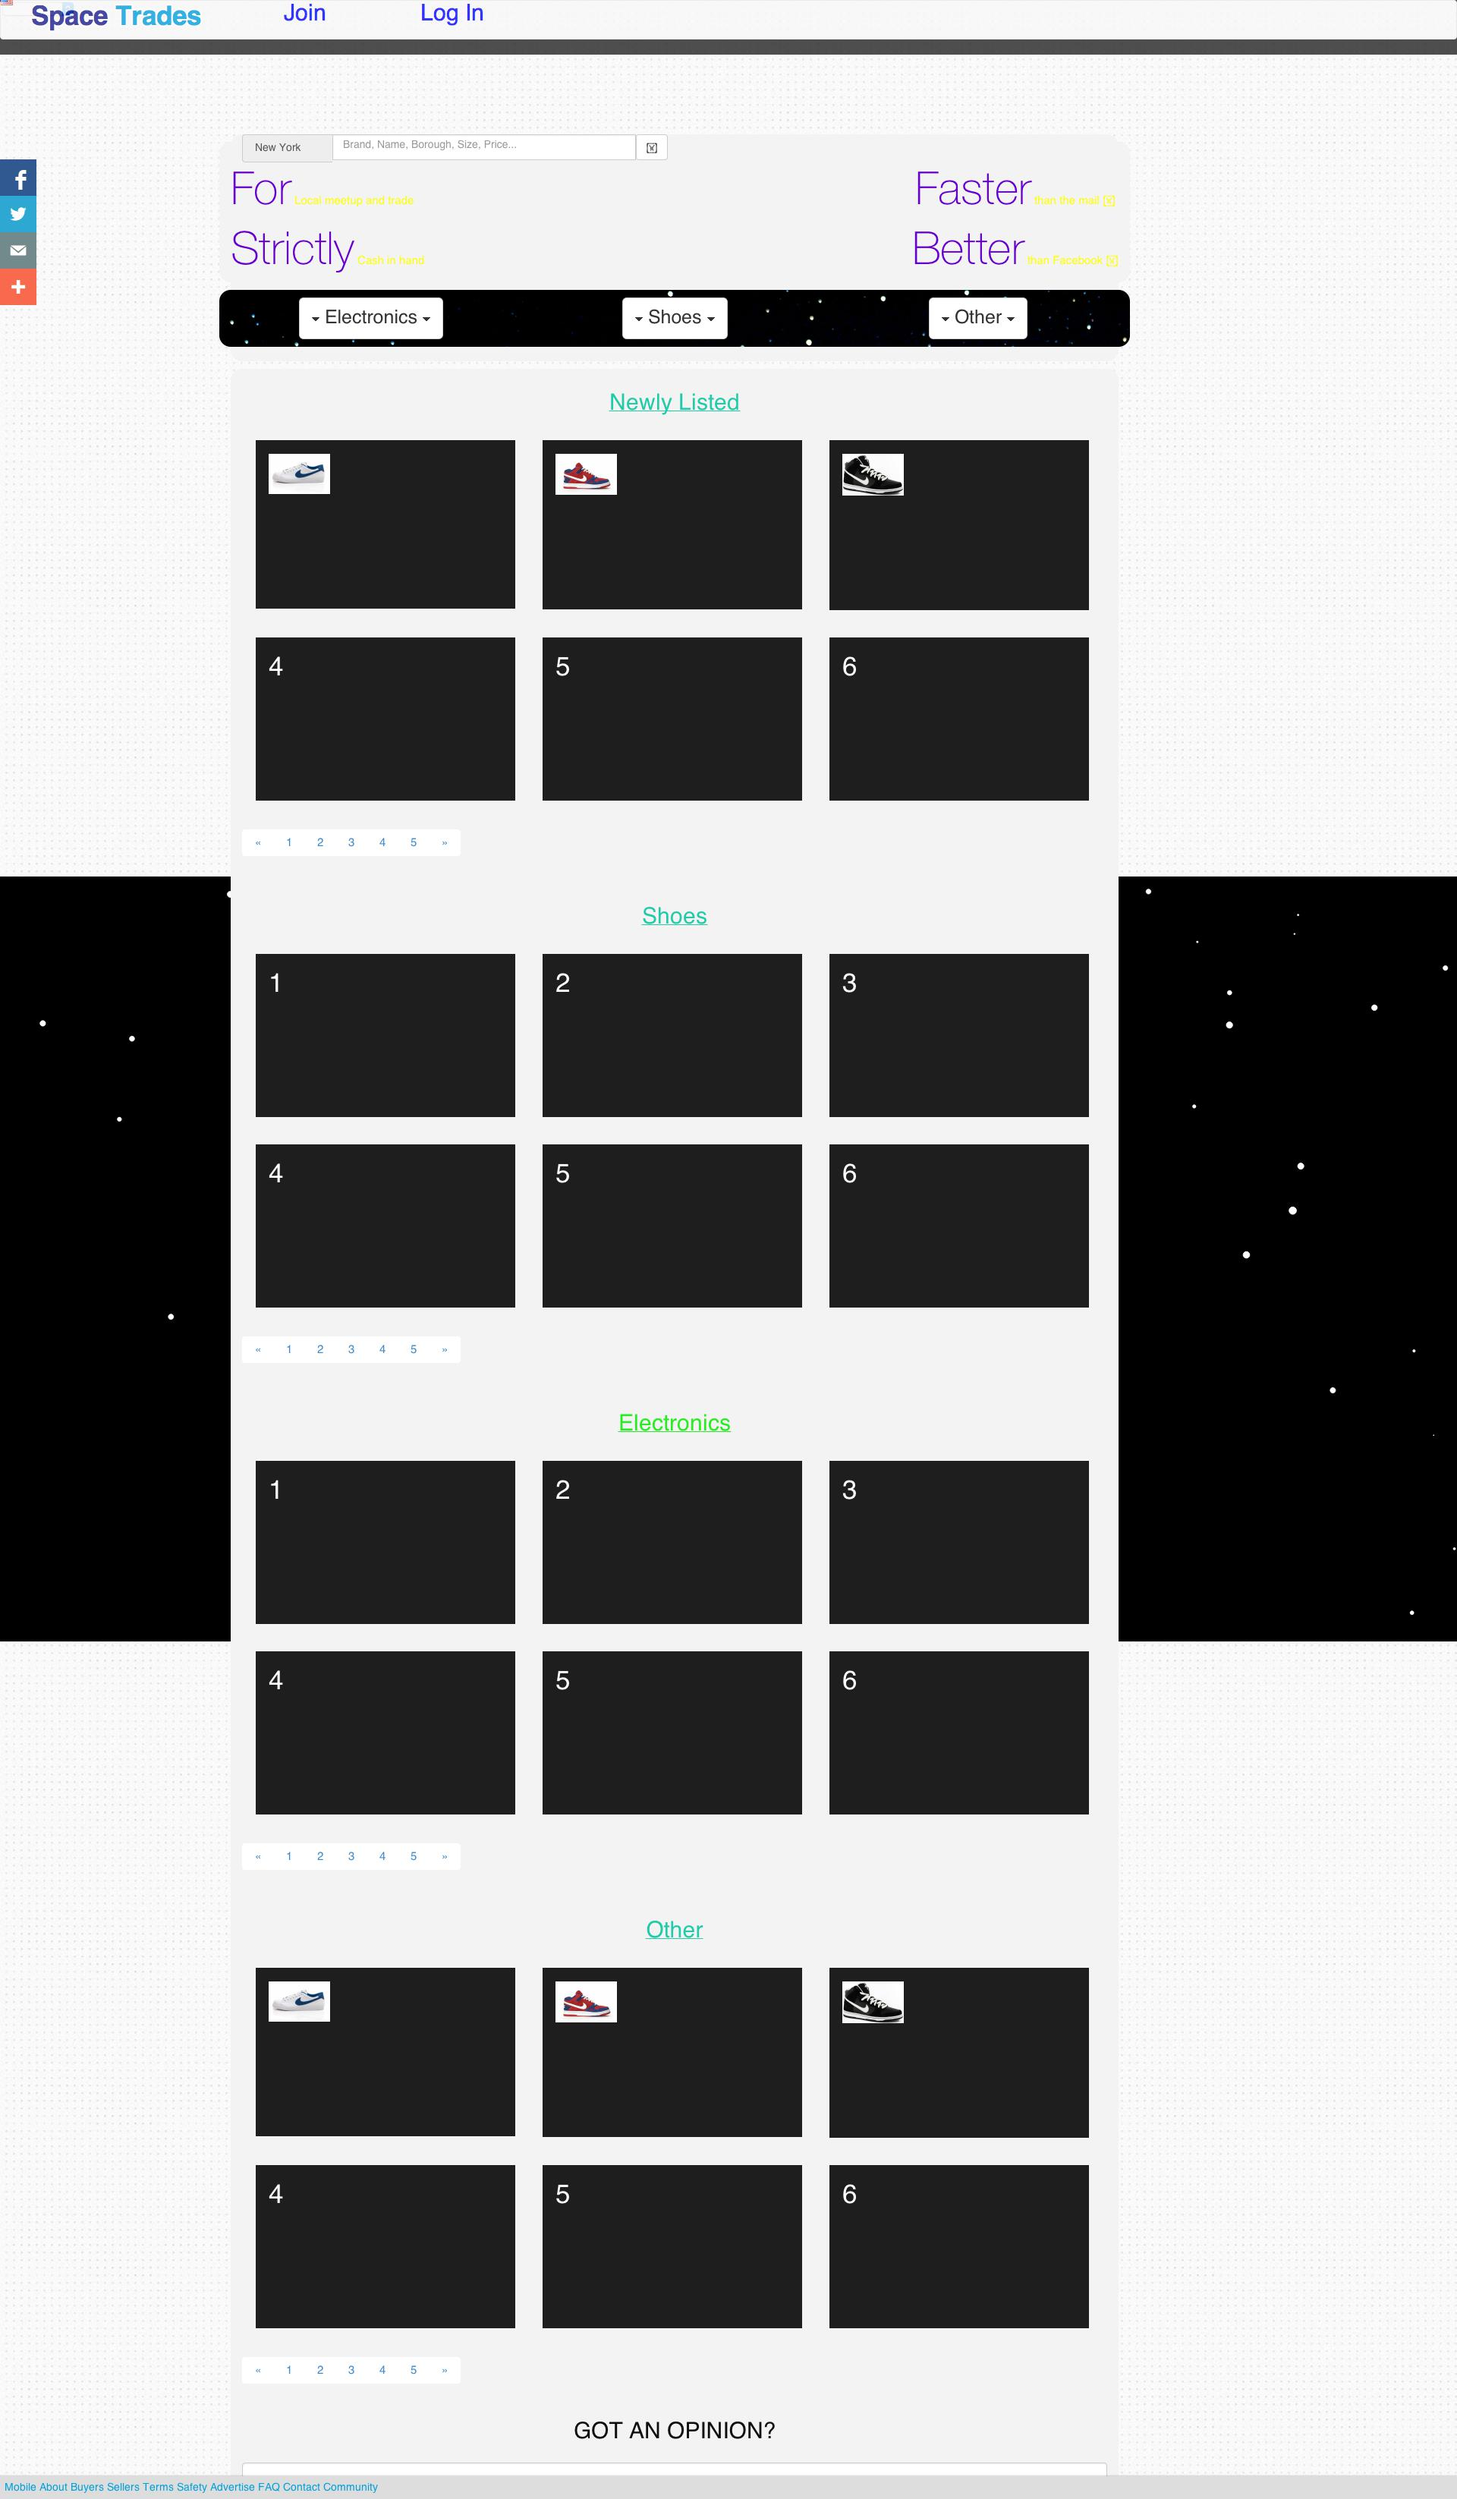
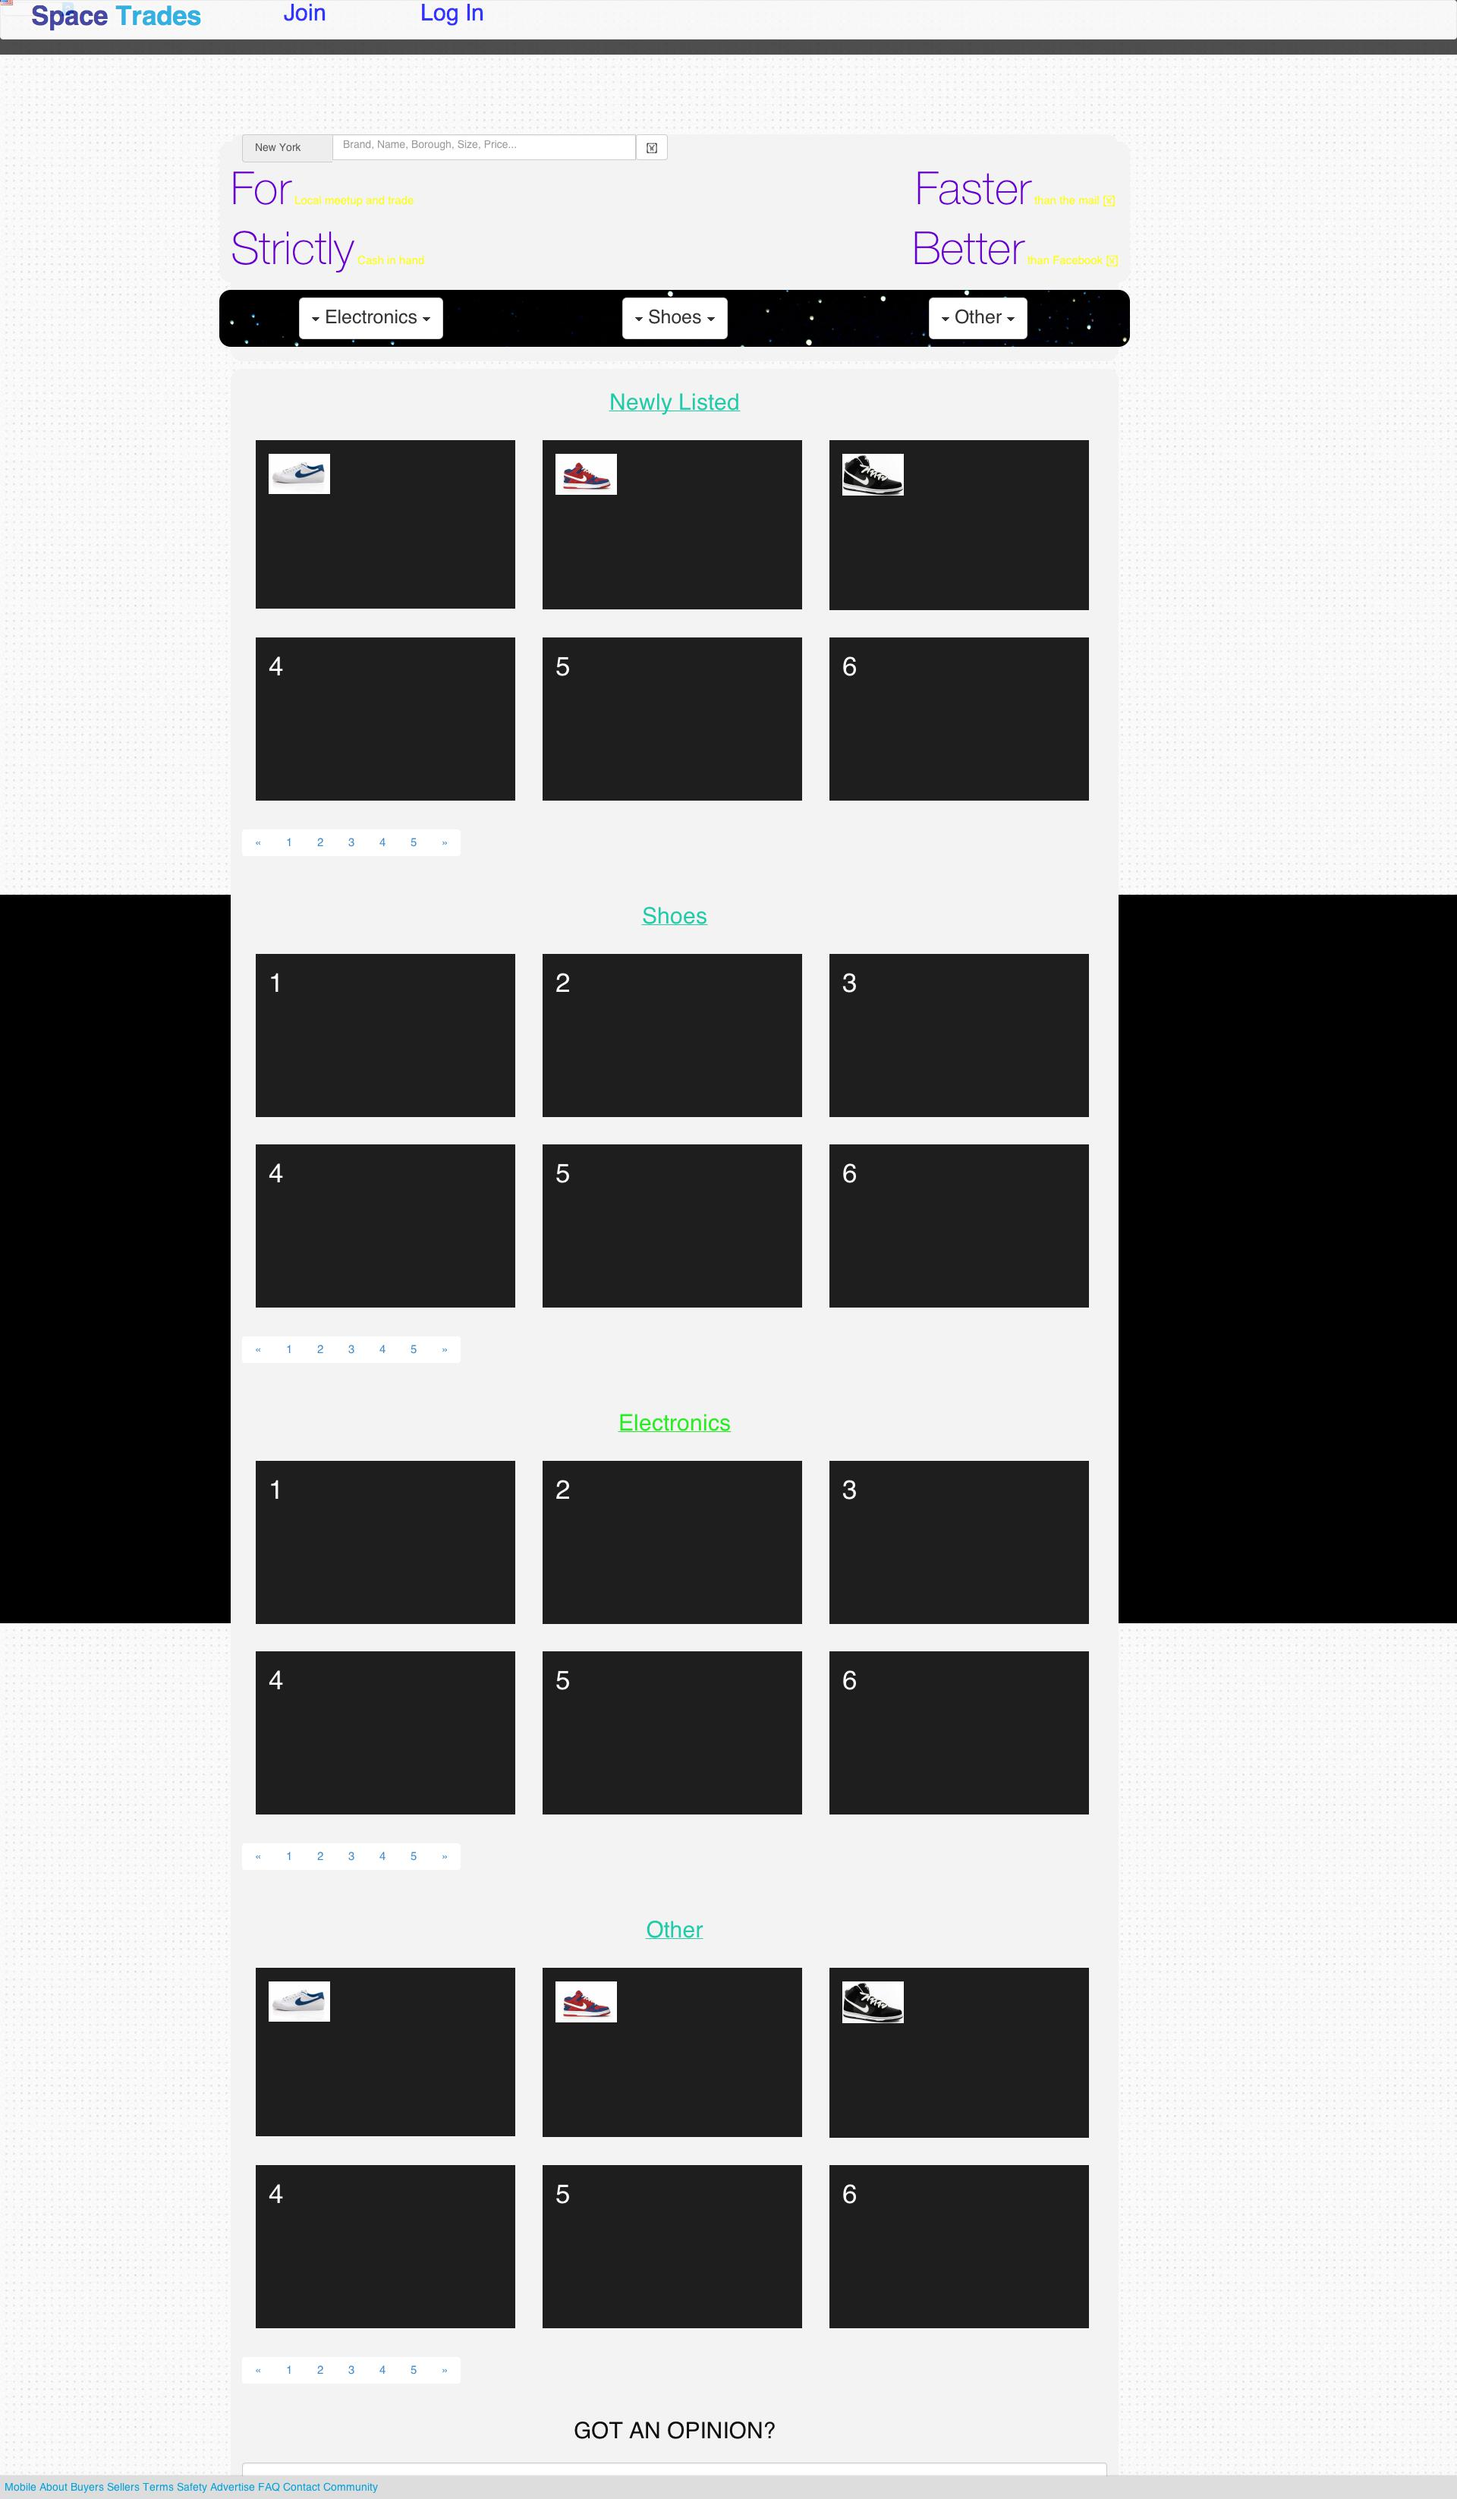
Changed Navbar

diff --git a/packages/system/server/views/includes/foot.html b/packages/system/server/views/includes/foot.html
@@ -1,27 +1,31 @@
 {% for file in assets.core.js %}
-  <script type="text/javascript" src="/{{file}}"></script>
+<script type="text/javascript" src="/{{file}}"></script>
 {% endfor %}
 
 <script type="text/javascript" src="/modules/aggregated.js"></script>
 
 {% if (process.env.NODE_ENV == 'development') %}
-  <!-- Livereload script rendered -->
-  <script type="text/javascript" src="{{'//' + req.hostname + ':35729/livereload.js'}}"></script>
+<!-- Livereload script rendered -->
+<script type="text/javascript" src="{{'//' + req.hostname + ':35729/livereload.js'}}"></script>
 {% endif %}
+<div class="row">
+  <div class="col-md-12">
    <footer>
-      
-        <div class="footer-items">
-          <a href="#!/about/example">Mobile</a>
-          <a href="#!/about">About</a>
-          <a href="#!/about">Buyers</a>
-          <a href="#!/about">Sellers</a>
-          <a href="#!/about/terms">Terms</a>
-          <a href="#!/about/safety">Safety</a>
-          <a href="#!/about">Advertise</a>
-          <a href="#!/about/faq">FAQ</a>
-          <a href="#!/about/contact">Contact</a>
-          <a href="#">Community</a>
-        </div>
-      <h6>&copy; 2014 SpaceTrades</h6>      
-      
-    </footer>
+    
+    <div class="footer-items">
+      <a href="#!/about/example">Mobile</a>
+      <a href="#!/about">About</a>
+      <a href="#!/about">Buyers</a>
+      <a href="#!/about">Sellers</a>
+      <a href="#!/about/terms">Terms</a>
+      <a href="#!/about/safety">Safety</a>
+      <a href="#!/about">Advertise</a>
+      <a href="#!/about/faq">FAQ</a>
+      <a href="#!/about/contact">Contact</a>
+      <a href="#">Community</a>
+    </div>
+    <h6>&copy; 2014 SpaceTrades</h6>      
+    
+  </footer>
+</div>
+</div>

diff --git a/packages/system/server/views/includes/head.html b/packages/system/server/views/includes/head.html
@@ -22,7 +22,6 @@
   <link rel="stylesheet" href="/bower_components/bootstrap/dist/css/bootstrap.css">
   <link rel="stylesheet" href="/modules/aggregated.css">
   <link rel="stylesheet" href="/bower_components/font-awesome/css/font-awesome.css">
-  <link rel="stylesheet" href="/bower_components/semantic-ui/dist/semantic.css">
   <script type="text/javascript" src="/modules/aggregated.js?group=header"></script>
   <script type="text/javascript" src="/bower_components/paper/dist/paper-full.js"></script>
   <script type="text/paperscript" canvas="myCanvas">

diff --git a/packages/system/public/assets/css/common.css b/packages/system/public/assets/css/common.css
@@ -358,6 +358,10 @@ footer {
     overflow:hidden;
 }
 
+.navbar-default{
+    background-color: inherit;
+}
+
 .content {
     position: absolute;
     height: 90%; /* = 100% - 2*5% padding */
@@ -459,6 +463,11 @@ p {
     -webkit-border-radius: 5px;
     -moz-border-radius: 5px;
     border-radius: 5px;
+}
+
+.margin{
+    margin-right: 1px !important;
+    margin-left: 1px !important;
 }
 
 .bottom a:hover{
